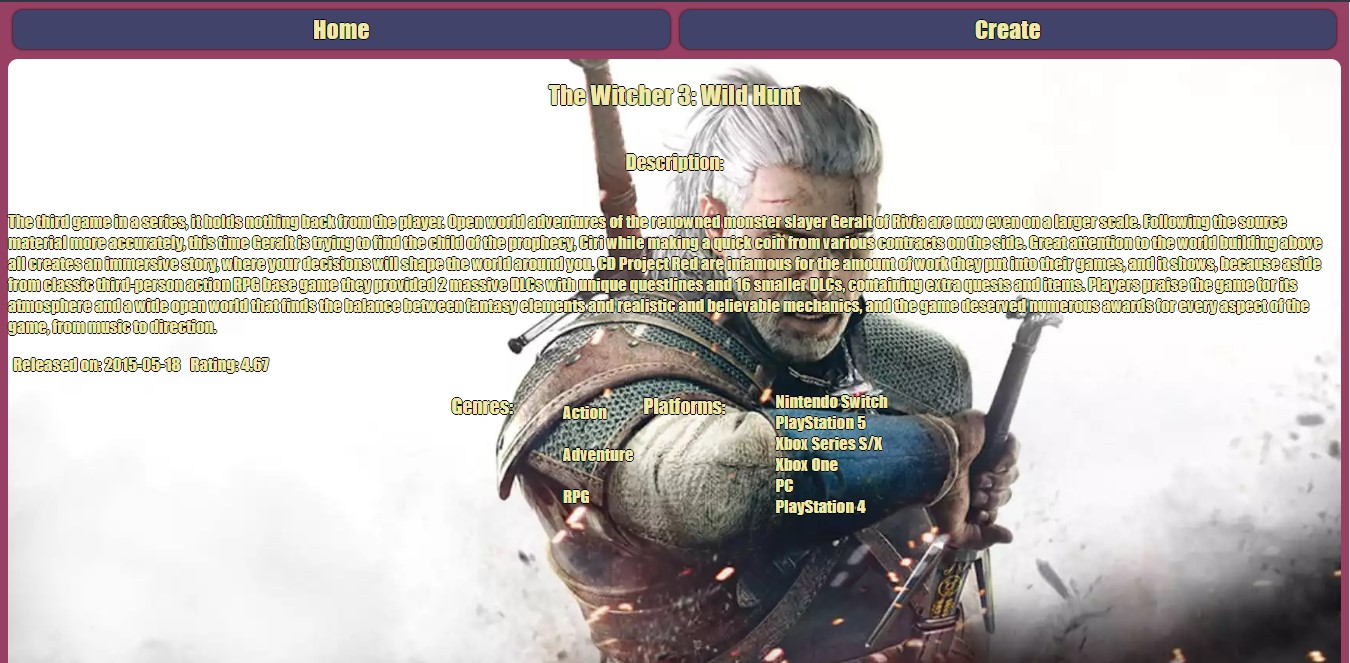
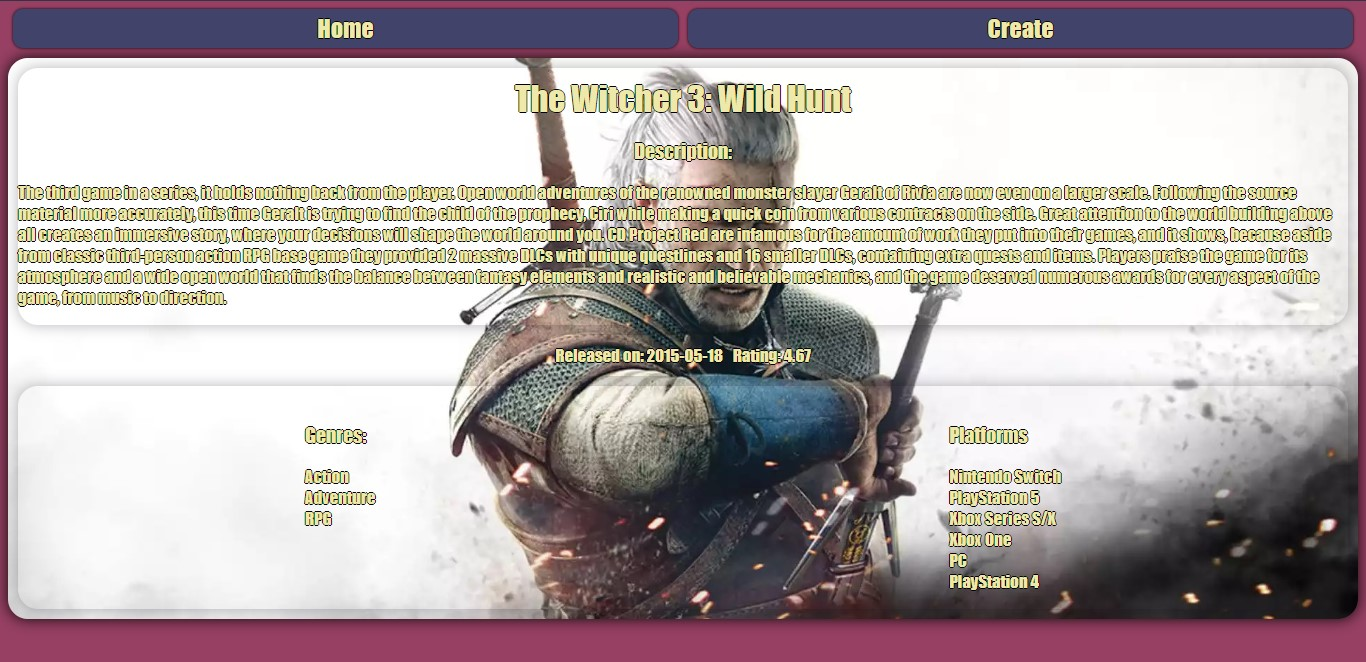
Modify: Readme description and pictures

diff --git a/README.md b/README.md
@@ -5,9 +5,6 @@ Es un proyecto individual con los objetivos de:
 - Aprender mejores prácticas.
 - Aprender y practicar el workflow de GIT.
 
-## Comenzando 🚀
-
-
 ### Pre-requisitos 📋
 
 __IMPORTANTE:__ Es necesario contar minimamente con la última versión estable de Node y NPM. Asegurarse de contar con ella para poder instalar correctamente las dependecias necesarias para correr el proyecto.
@@ -66,6 +63,7 @@ El sitio permite:
 - Filtrado activo y combinable por géneros, origen de la información obtenida (solicitado a la api externa o a la base de datos)
 - Ordenamiento de la información obtenida según fecha de lanzamiento o orden alfabético
 - Creación de juegos al listado, con control de existencia previa en la base de datos
+- Visualización apta para telefonos móviles
 ## Imágenes ✨
 
 <p align="center">
